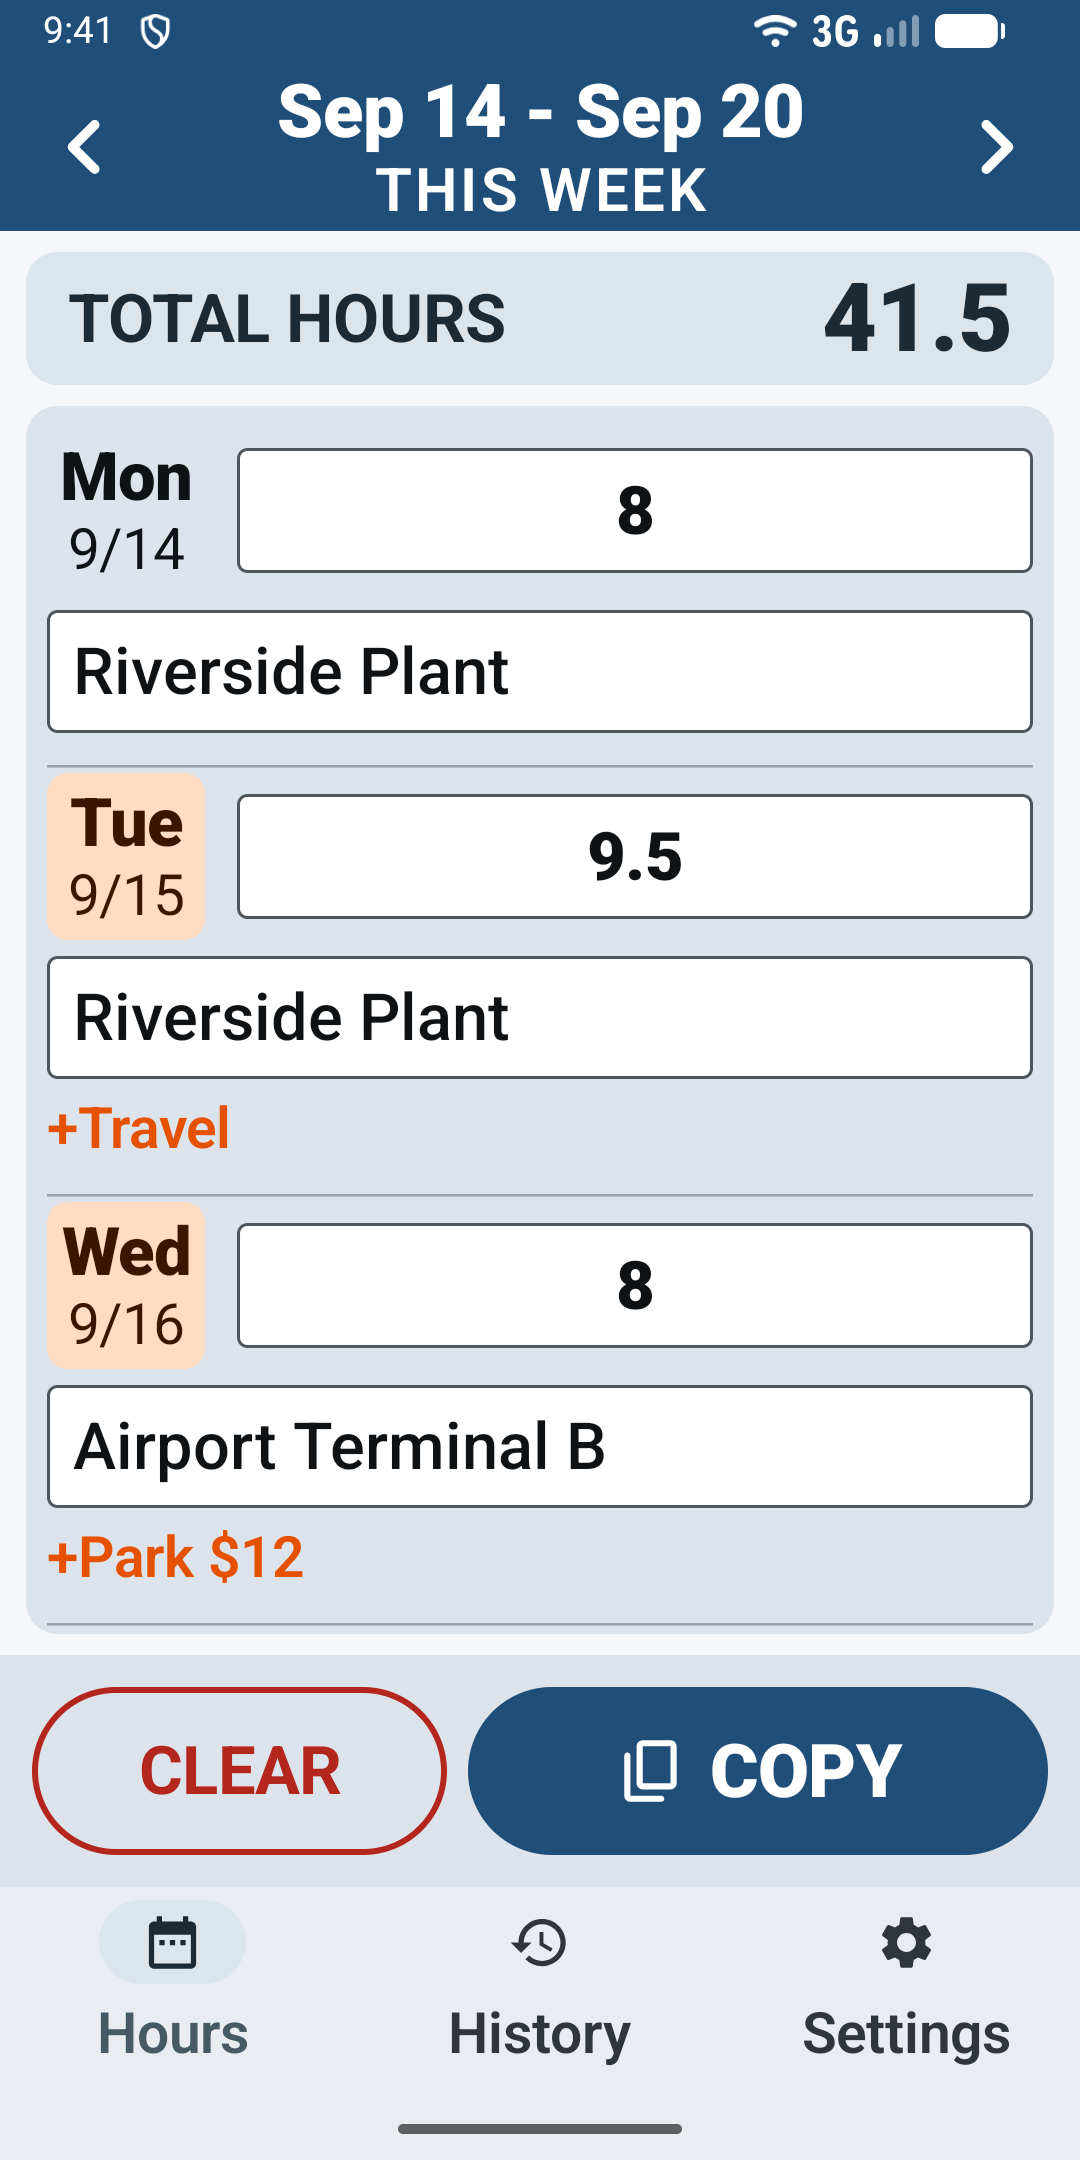
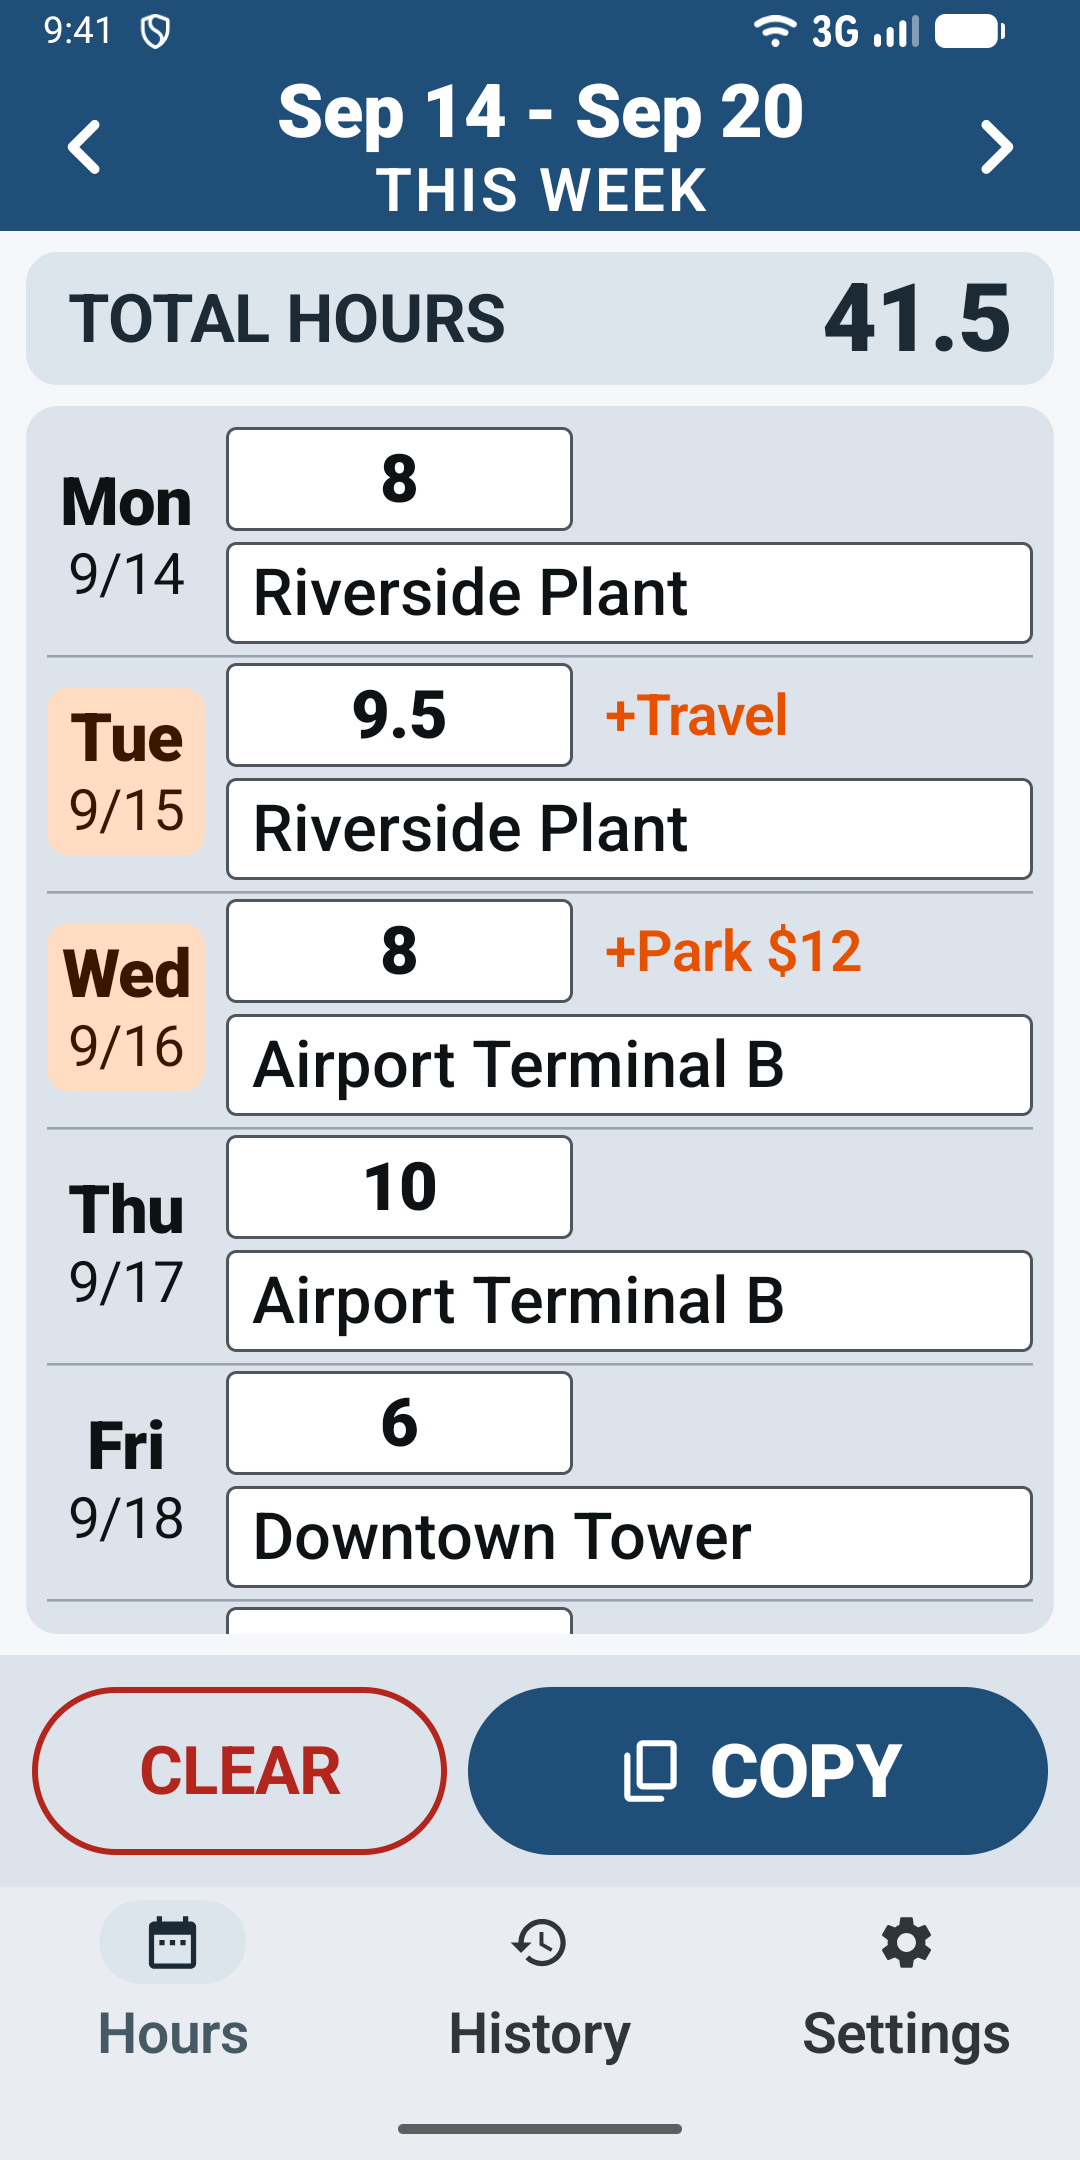
Tighter Biggest-text layout: label left, hours + tags and site stacked right
Two rows per day instead of three (5 days visible instead of 3); refreshed screenshot.

Changed region(s): [[0.0306, 0.1861, 0.9778, 0.7755], [0.825, 0.0, 0.8556, 0.031]]

diff --git a/app/src/main/java/com/example/timesheet/ui/hours/WeeklyHoursScreen.kt b/app/src/main/java/com/example/timesheet/ui/hours/WeeklyHoursScreen.kt
@@ -312,7 +312,8 @@ private fun GridField(
     placeholder: (@Composable () -> Unit)?,
     singleLine: Boolean,
     maxLines: Int,
-    horizontalPadding: Dp
+    horizontalPadding: Dp,
+    verticalPadding: Dp = 9.dp
 ) {
     val interaction = remember { MutableInteractionSource() }
     val colors = fieldColors()
@@ -339,8 +340,8 @@ private fun GridField(
                 contentPadding = OutlinedTextFieldDefaults.contentPadding(
                     start = horizontalPadding,
                     end = horizontalPadding,
-                    top = 9.dp,
-                    bottom = 9.dp
+                    top = verticalPadding,
+                    bottom = verticalPadding
                 ),
                 container = {
                     OutlinedTextFieldDefaults.Container(
@@ -422,28 +423,46 @@ private fun DayRow(
             } else null,
             singleLine = true,
             maxLines = 1,
-            horizontalPadding = 4.dp
+            horizontalPadding = 4.dp,
+            verticalPadding = if (stacked) 5.dp else 9.dp
         )
     }
 
     val extras: @Composable () -> Unit = {
         if (day.hasExtras()) {
-            Row(horizontalArrangement = Arrangement.spacedBy(12.dp)) {
+            val tags: @Composable () -> Unit = {
                 if (day.travel) Text("+Travel", style = MaterialTheme.typography.labelMedium, color = MaterialTheme.colorScheme.tertiary)
                 if (day.parking.isNotEmpty()) Text("+Park $${day.parking}", style = MaterialTheme.typography.labelMedium, color = MaterialTheme.colorScheme.tertiary)
             }
+            // Beside the hours box at Biggest (stacked to fit); under the site otherwise.
+            if (stacked) Column { tags() } else Row(horizontalArrangement = Arrangement.spacedBy(12.dp)) { tags() }
         }
     }
 
     if (stacked) {
-        Column(modifier = Modifier.fillMaxWidth(), verticalArrangement = Arrangement.spacedBy(6.dp)) {
-            Row(verticalAlignment = Alignment.CenterVertically, horizontalArrangement = Arrangement.spacedBy(12.dp)) {
+        // Biggest text: the day label sits on the left; hours (with any travel/parking tags beside
+        // it) and the site stack on the right. Two rows per day instead of three.
+        Column(modifier = Modifier.fillMaxWidth()) {
+            Row(
+                modifier = Modifier.fillMaxWidth(),
+                verticalAlignment = Alignment.CenterVertically,
+                horizontalArrangement = Arrangement.spacedBy(8.dp)
+            ) {
                 dayChip()
-                hoursField(Modifier.weight(1f))
+                Column(modifier = Modifier.weight(1f), verticalArrangement = Arrangement.spacedBy(4.dp)) {
+                    Row(verticalAlignment = Alignment.CenterVertically, horizontalArrangement = Arrangement.spacedBy(12.dp)) {
+                        hoursField(Modifier.width(132.dp))
+                        extras()
+                    }
+                    SiteField(
+                        value = day.site,
+                        onValueChange = { day.site = it },
+                        suggestions = suggestions,
+                        verticalPadding = 5.dp
+                    )
+                }
             }
-            SiteField(value = day.site, onValueChange = { day.site = it }, suggestions = suggestions)
-            extras()
-            HorizontalDivider(color = MaterialTheme.colorScheme.outlineVariant, modifier = Modifier.padding(top = 6.dp))
+            HorizontalDivider(color = MaterialTheme.colorScheme.outlineVariant, modifier = Modifier.padding(top = 4.dp))
         }
     } else {
         Row(
@@ -462,7 +481,12 @@ private fun DayRow(
 }
 
 @Composable
-private fun SiteField(value: String, onValueChange: (String) -> Unit, suggestions: List<String>) {
+private fun SiteField(
+    value: String,
+    onValueChange: (String) -> Unit,
+    suggestions: List<String>,
+    verticalPadding: Dp = 9.dp
+) {
     var expanded by remember { mutableStateOf(false) }
     val matches = remember(value, suggestions) {
         if (value.isBlank()) emptyList()
@@ -482,7 +506,8 @@ private fun SiteField(value: String, onValueChange: (String) -> Unit, suggestion
             // Long names wrap onto a second line rather than scrolling the start out of view.
             singleLine = false,
             maxLines = 2,
-            horizontalPadding = 10.dp
+            horizontalPadding = 10.dp,
+            verticalPadding = verticalPadding
         )
         DropdownMenu(
             expanded = expanded && matches.isNotEmpty(),
